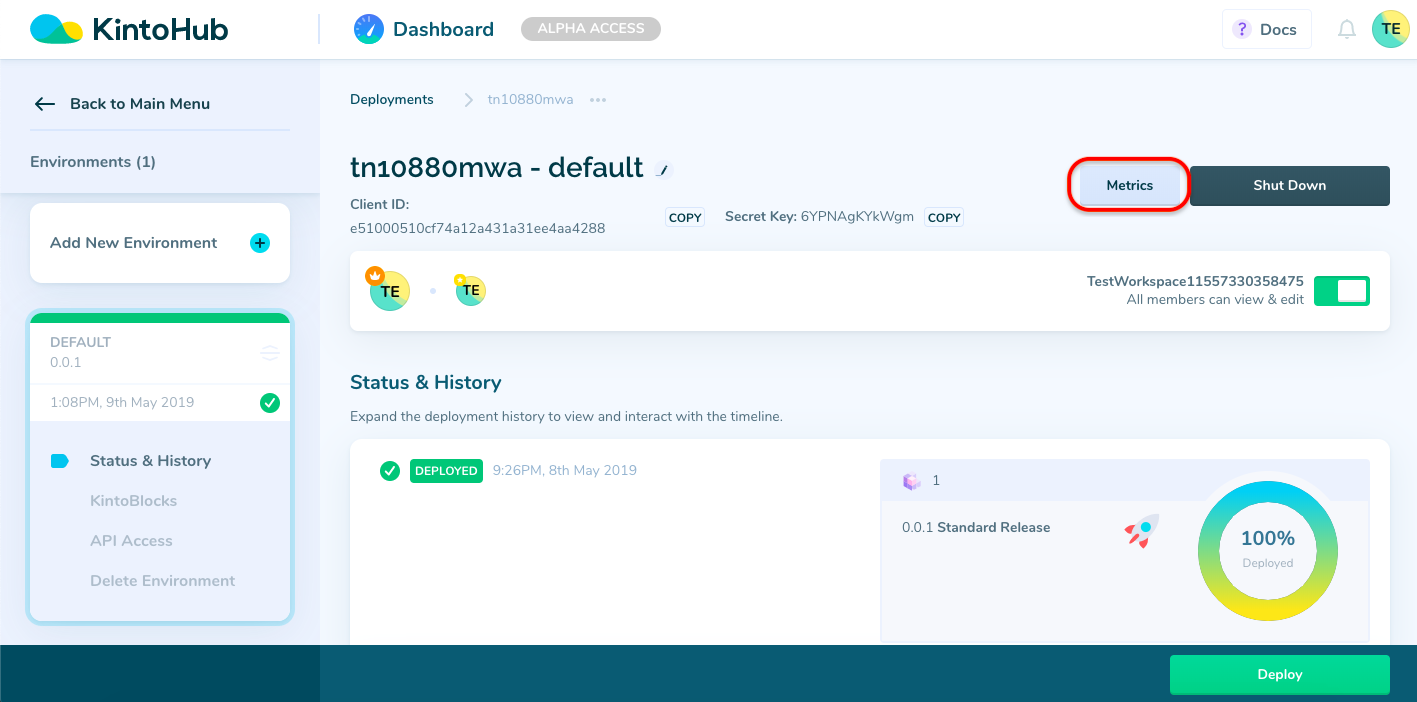
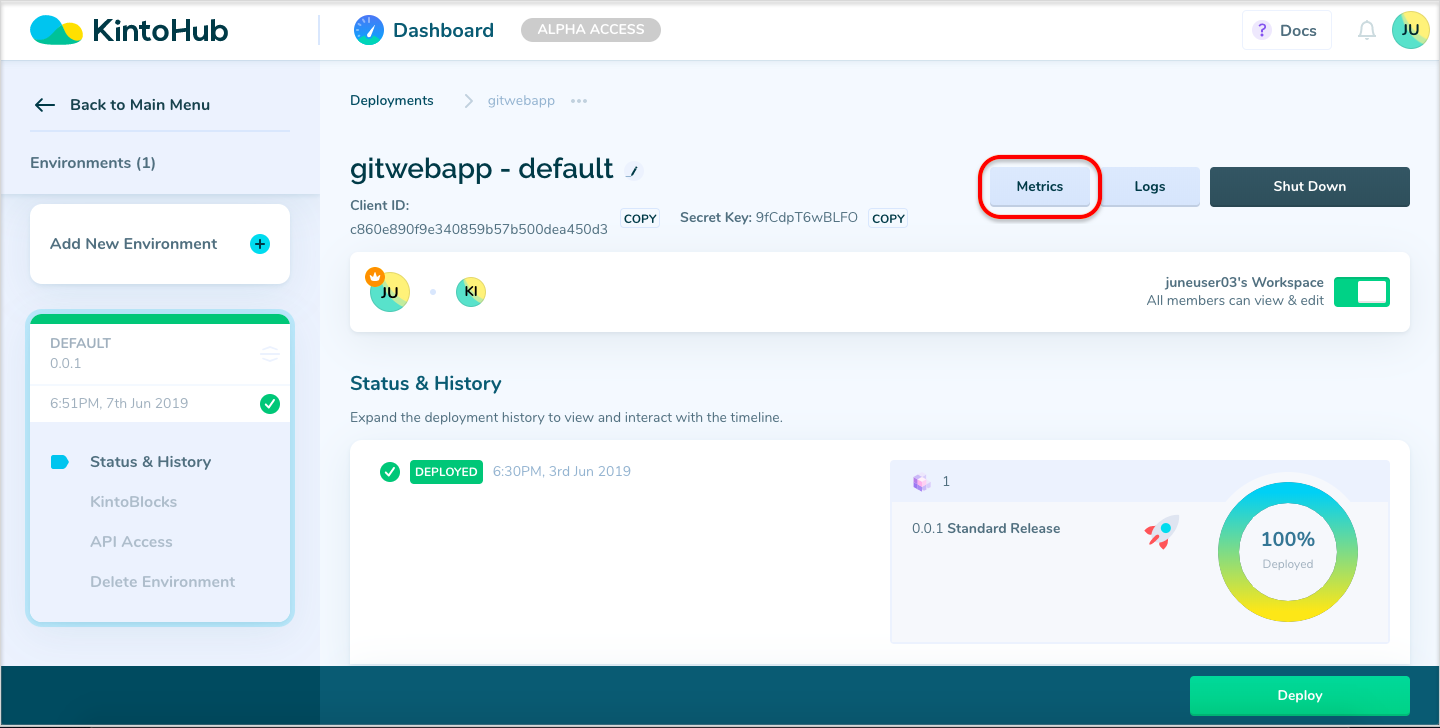
Doc updates (#125)
* Delete edit-icon-deployments.png

* Delete add-new-env.png

* Delete metrics-btn.png

* Delete promote-env.png

* Updated Images for Deployments

* Update manage-environments.md

diff --git a/docs/manage-environments.md b/docs/manage-environments.md
@@ -13,9 +13,9 @@ To promote an environment, follow the steps mentioned below:
 
 3. Click on the **Promote** button displayed for an environment. 
 
-4. Click on the Deploy button displayed in Promote pop-up.
-
     ![Screenshot](/docs/assets/promote-env.png)
+
+4. Click on the **Deploy** button displayed in Promote pop-up.
 
 The environment gets deployed with the latest KintoBlocks available in the parent environment.
 
@@ -112,4 +112,3 @@ To launch a Website Deployment, follow the steps mentioned below:
 4. Enter the `Username` and `Password` to access the website.
 
     ![Screenshot](/docs/assets/website_basic_auth.png)
-
